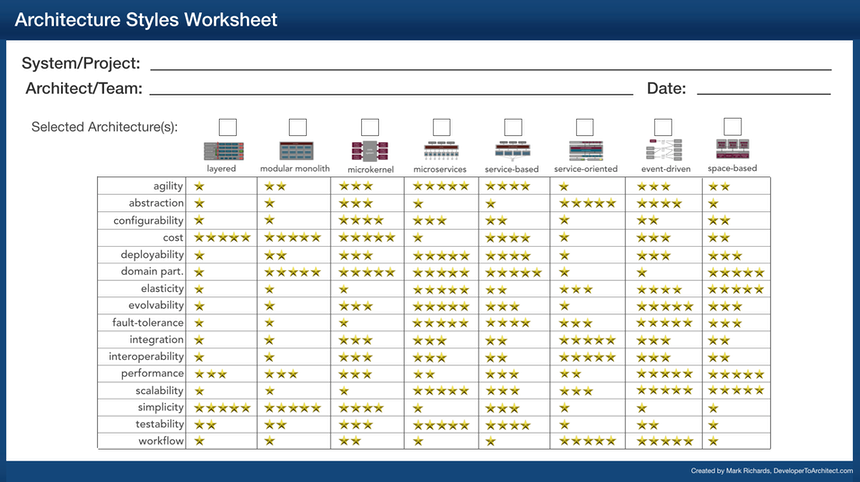
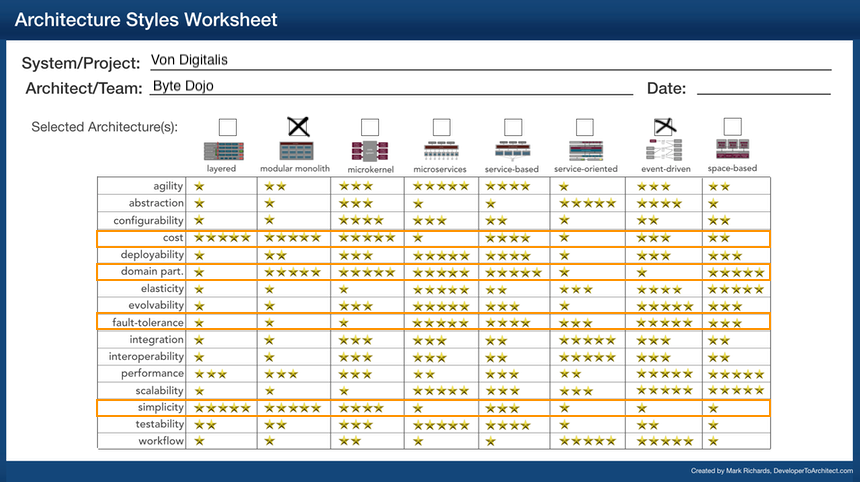
update architecture style adr

diff --git a/adrs/adr-016-architecture-style.md b/adrs/adr-016-architecture-style.md
@@ -1,6 +1,6 @@
 # Architecture style
 
-Date: 2026-09-13
+Date: 2026-09-14
 
 Owner: LJO
 
@@ -11,68 +11,71 @@ Proposed
 ## Context
 
 [ADR-002](adr-002-bounded-contexts.md), [ADR-003](adr-003-deterministic-core-advisory-ai.md) and [ADR-009](adr-009-modular-monolith.md) decide boundaries, authority and the cloud deployable, but
-none names the style of the whole system or shows what it was compared with. Changing
-style later is the most expensive change we can make.
+none names the style of the whole system or shows what it was compared with.
 
 We rated the candidates with the architecture styles worksheet by Mark Richards
-(*Fundamentals of Software Architecture*, Richards and Ford):
+(*Fundamentals of Software Architecture*, Richards and Ford). Framed rows are the driving
+characteristics, crossed boxes the styles we chose.
 
 ![Architecture styles worksheet](../diagrams/architecture-styles-worksheet.png)
 
-Driving characteristics, open for team discussion:
+Driving characteristics:
 
-- Fault tolerance. Admission, ride safety and animal care continue without the internet,
-  the cloud or the AI provider ([QA-01](../quality-attributes.md#qa-01-availability), [QA-02](../quality-attributes.md#qa-02-safety)).
-- Simplicity. Three people build and run it ([ADR-009](adr-009-modular-monolith.md)).
-- Evolvability. Providers and models will change; a context may need its own deployment
-  later ([QA-06](../quality-attributes.md#qa-06-evolvability)).
+- Fault tolerance. Admission, ride safety and animal care continue without the cloud
+  ([QA-01](../quality-attributes.md#qa-01-availability), [QA-02](../quality-attributes.md#qa-02-safety)).
+- Simplicity and cost. Three people build and run it ([ADR-009](adr-009-modular-monolith.md)).
+- Domain partitioning. [ADR-002](adr-002-bounded-contexts.md) cut the system into seven contexts. The style must
+  not cut across them.
 
-Safety is not a driver because no style provides it; [ADR-003](adr-003-deterministic-core-advisory-ai.md) and [ADR-006](adr-006-policies-execute-at-edge.md) enforce it.
-Scalability is not a driver because 15,000 visitors a day is not a load problem ([QA-07](../quality-attributes.md#qa-07-performance-and-scale)).
+Safety and scalability are not drivers. No style provides safety ([ADR-003](adr-003-deterministic-core-advisory-ai.md)), and 15,000
+visitors a day is not a load problem ([QA-07](../quality-attributes.md#qa-07-performance-and-scale)).
 
-Alternatives considered, read against those three rows:
+On those rows the two chosen styles are mirror images. The modular monolith scores five
+stars on cost, domain partitioning and simplicity, and one star on fault tolerance: when
+the cloud is unreachable, the estate stops. Event-driven scores five stars on fault
+tolerance, because nothing waits on anything, and one star on simplicity and domain
+partitioning: it is partitioned by flow, and an asynchronous flow is harder to follow
+than a call stack. Combined, each covers the other's weak rows. The monolith is the shape
+of each deployable. Events are the only integration, between modules and across the
+estate-cloud boundary. The cost of events is paid on the seams, not inside a module.
 
-- Layered or modular monolith for the whole system. Rejected. One process cannot survive
-  the cloud being unreachable from the estate.
-- Microkernel. Rejected. Same fault-tolerance problem, and plug-ins fit a product with
-  variants.
-- Microservices. Rejected. Seven services and seven pipelines for three people ([ADR-009](adr-009-modular-monolith.md)).
-- Event-driven alone. Rejected. Without a synchronous local core nothing admits a
-  visitor.
-- Service-oriented and space-based. Not rated. Enterprise orchestration and extreme
-  elasticity are not our problems.
+Alternatives considered:
+
+- Layered monolith or modular monolith alone. Rejected. One process cannot survive the
+  cloud being unreachable from the estate.
+- Microkernel. Rejected. Same problem, and plug-ins fit a product with variants.
+- Microservices. Rejected. Seven services and seven pipelines for three people.
+- Service-based. Rejected, narrowly. Closest single style, but it assumes a shared
+  database and synchronous calls between services.
+- Event-driven alone. Rejected. No synchronous local core to admit a visitor.
+- Service-oriented and space-based. Not rated. Not our problems.
 
 ## Decision
 
-The system is service-based with two coarse services, event-driven inside and between
-them.
+Two modular monoliths that integrate only through domain events.
 
-- The cloud platform runs Ticketing, Attraction Catalogue, Estate Insights and AI
-  Decision Support, Staff Tasks and Alerts, and the cloud side of the operational
-  contexts, as a modular monolith with one module per context ([ADR-009](adr-009-modular-monolith.md)).
-- The park service on the Estate Edge Hub runs the operational core: admission, ride
-  safety policies, animal-care recording and the local estate view. It works without the
-  cloud. Devices reach it over MQTT ([ADR-004](adr-004-mixed-connectivity-mqtt.md)).
-- Each service keeps its own event log and data. Nothing shares a database.
-- Modules integrate through published domain events ([ADR-005](adr-005-integration-through-domain-events.md)); the two services exchange
-  events over one WebSocket connection ([ADR-007](adr-007-estate-cloud-sync-protocol.md)). The cloud is the system of record.
+- The cloud platform is one modular monolith with one module per context ([ADR-009](adr-009-modular-monolith.md)). It
+  is the system of record.
+- The park service on the Estate Edge Hub is a second, smaller modular monolith with the
+  operational core: admission, ride safety policies, animal-care recording and the local
+  estate view. It works without the cloud. Devices reach it over MQTT ([ADR-004](adr-004-mixed-connectivity-mqtt.md)).
+- Inside a module, calls are synchronous. Between modules and between the two services,
+  the only integration is published domain events ([ADR-005](adr-005-integration-through-domain-events.md)), exchanged over one
+  WebSocket connection ([ADR-007](adr-007-estate-cloud-sync-protocol.md)). Nothing shares a database.
 
 See [cloud and estate](../diagrams/architecture-cloud-estate.png).
 
 ## Consequences
 
-Strengthened:
+- Fault tolerance. The park service is an availability boundary. An outage delays
+  events; it does not block work.
+- Simplicity and cost. Two deployables, two pipelines. The event log is the only
+  infrastructure the combination adds.
+- Domain partitioning. Modules are the contexts from [ADR-002](adr-002-bounded-contexts.md), and a module can leave
+  the cloud platform as a deployment change ([QA-06](../quality-attributes.md#qa-06-evolvability)).
+- Testability suffers. Two logs and asynchronous delivery make one visit harder to follow
+  than a call stack. Tracing across both services is needed from the first release.
+- The cloud lags the estate during an outage ([QA-07](../quality-attributes.md#qa-07-performance-and-scale)). [ADR-008](adr-008-signed-offline-ticket-validation.md) exists because the
+  two services can disagree for a while.
 
-- Fault tolerance. The park service is an availability boundary.
-- Simplicity. Two deployables, two pipelines, one process to debug inside each.
-- Evolvability. A module can leave the cloud platform as a deployment change ([ADR-009](adr-009-modular-monolith.md)).
-
-Weakened:
-
-- Testability. Two logs and asynchronous delivery make one visit harder to follow than a
-  call stack. Tracing across both services is needed from the first release.
-- Consistency. The cloud lags the estate during an outage ([QA-07](../quality-attributes.md#qa-07-performance-and-scale)). [ADR-008](adr-008-signed-offline-ticket-validation.md) exists because
-  the two services can disagree for a while.
-
-Open: whether Ticketing becomes its own cloud service, to keep the payment provider
-integration and its compliance scope apart. Today [ADR-009](adr-009-modular-monolith.md) keeps it a module.
+Open: whether Ticketing becomes its own cloud service. Today [ADR-009](adr-009-modular-monolith.md) keeps it a module.
